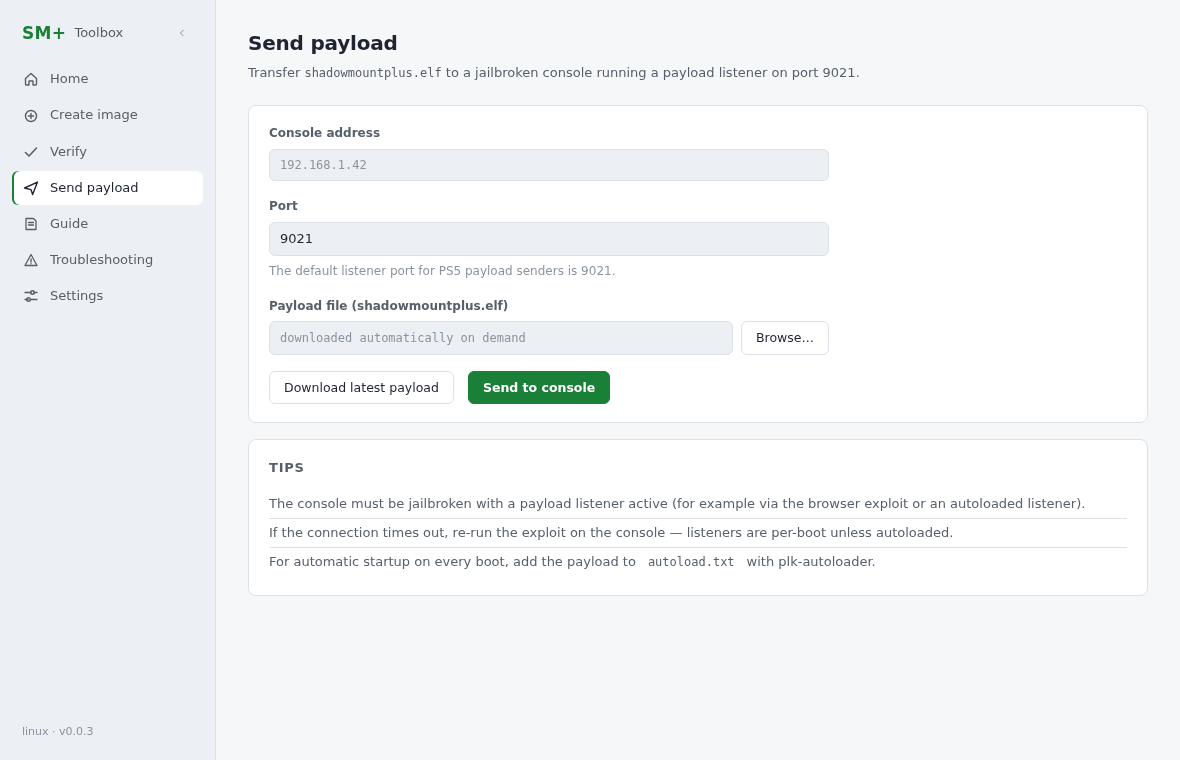
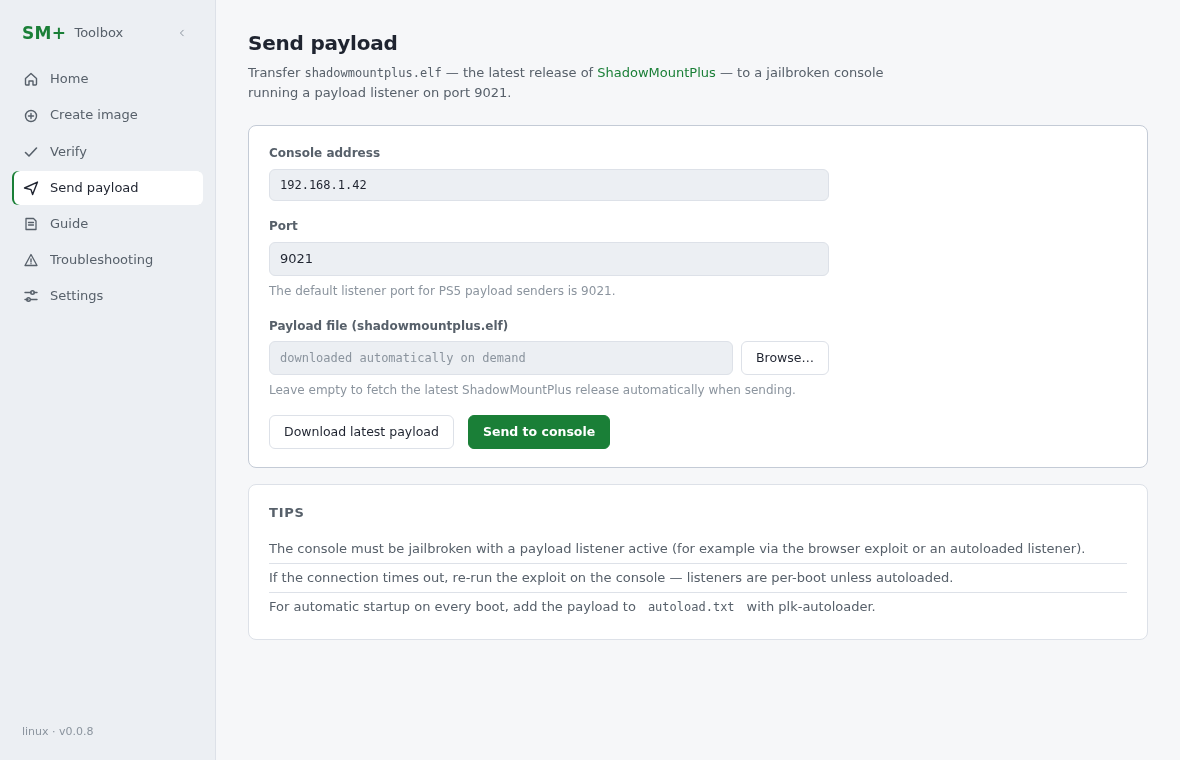
chore: set the version to 0.0.8 and refresh the screenshots

Changed region(s): [[0.2136, 0.0908, 0.7322, 0.6053], [0.2136, 0.6053, 0.9153, 0.8171]]

diff --git a/README.md b/README.md
@@ -32,7 +32,7 @@ Queue any number of images and check what each file actually contains: filesyste
 
 ### Send payloads to your console
 
-Download `shadowmountplus.elf` from within the app and send it to a payload listener on your console over TCP port `9021`. The downloaded file is cached locally for subsequent use.
+Send `shadowmountplus.elf` to a payload listener on your console over TCP port `9021`. The latest release of [ShadowMountPlus](https://github.com/drakmor/ShadowMountPlus) is downloaded automatically whenever the payload field is left empty, and the downloaded file is cached locally for subsequent use.
 
 ### Keep the tools up to date
 
@@ -40,17 +40,17 @@ On startup, the app can check GitHub for a newer SM+ Toolbox release and direct 
 
 The built-in tool manager also handles downloading UFS2Tool and MkPFS, so you don't have to hunt down those dependencies yourself.
 
-When something is missing, the Home view offers a one-click setup that installs everything the app can manage in a single pass, and Settings can check those tools for newer releases.
+When something is missing, the Home view offers a one-click setup that installs everything the app can manage in a single pass, and Settings can check those tools for newer releases. Settings also covers the appearance: a dark or light theme and five accent colors for buttons, links, and highlights.
 
-![Settings view with the tool manager](docs/screenshots/settings.png)
+![Settings view with the accent color picker and the tool manager](docs/screenshots/settings.png)
 
 ### Built-in documentation
 
 Installation instructions, usage notes, and troubleshooting information from the ShadowMountPlus README are available inside the app, with search to help you find what you need.
 
-One thing worth noting: **commands aren't hidden behind the UI.** Before execution, the app previews the commands it will run, and the terminal panel shows the tools, arguments, and output as each step progresses.
+One thing worth noting: **commands aren't hidden behind the UI.** Before execution, the app previews the commands it will run, and the terminal panel shows the tools, arguments, and output as each step progresses. Advanced users can edit those command lines right in the preview: edited commands run exactly as typed (bash on Linux, PowerShell on Windows), while empty lines fall back to the generated ones.
 
-![Create view with post-build options and command preview](docs/screenshots/create.png)
+![Create view with advanced command editing, the build queue, and the terminal dock](docs/screenshots/create.png)
 
 ## Requirements
 
